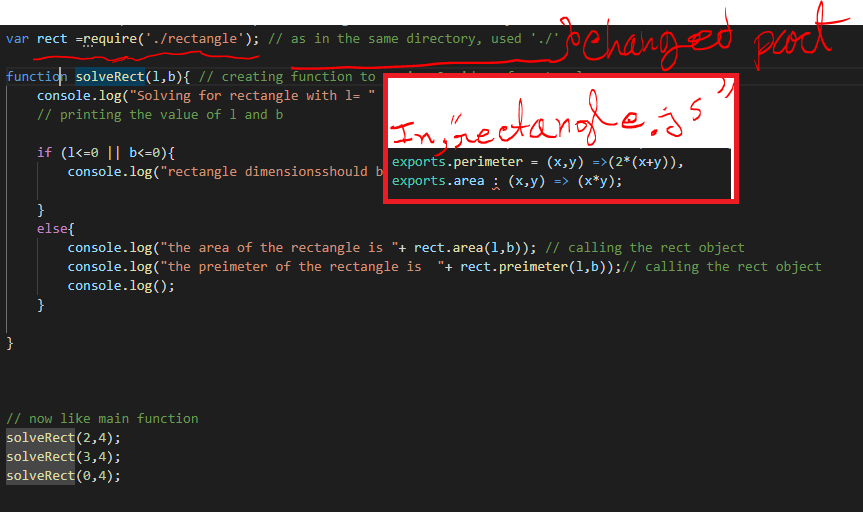
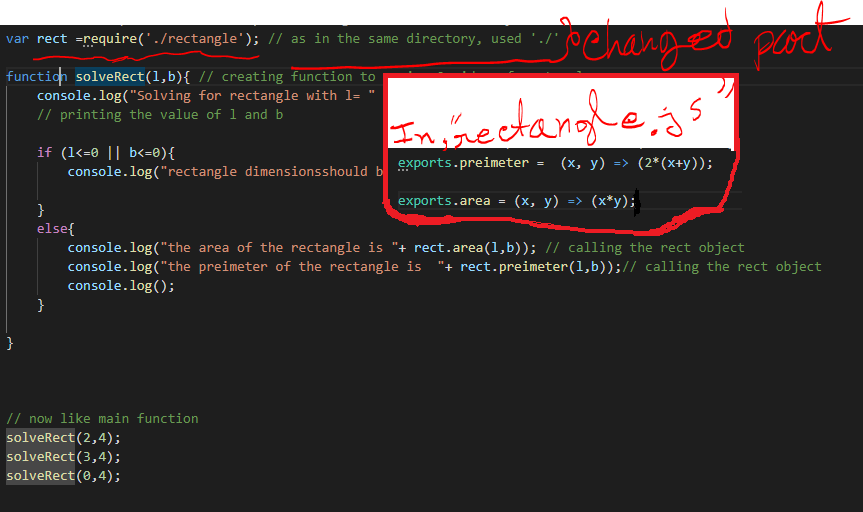
simple node module

Changed region(s): [[0.4519, 0.2812, 0.8737, 0.4688]]

diff --git a/exercise/index.js b/exercise/index.js
@@ -1,7 +1,4 @@
-var rect ={ // var means bariable, here creating a object variable
-    preimeter: (x,y) => (2*(x+y)),
-    area: (x,y) => (x*y)
-};
+var rect = require('./rectangle.js');// 'rectangle.js' is in the same folder so used './'
 
 function solveRect(l,b){ // creating function to recive 2 sides of rectangle
     console.log("Solving for rectangle with l=" + l + "and b"+b); 

diff --git a/exercise/rectangle.js b/exercise/rectangle.js
@@ -1,0 +1,3 @@
+exports.preimeter =  (x, y) => (2*(x+y));
+
+exports.area = (x, y) => (x*y);

diff --git a/nodeJS setup  DESCRIPTION OF EXERCISE/2 node module.md b/nodeJS setup  DESCRIPTION OF EXERCISE/2 node module.md
@@ -11,7 +11,7 @@ index.js initially:
 2. in rectangle.js:
 <br>
 exports.perimeter = (x,y) =>(2*(x+y)),<br>
-exports.area : (x,y) => (x*y);<br>
+exports.area = (x,y) => (x*y);<br>
 
 <br><br>
 
